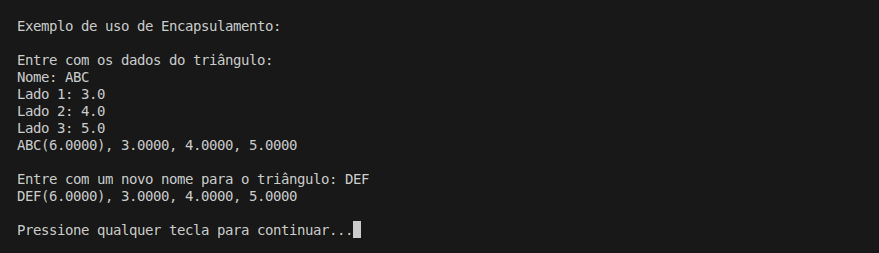
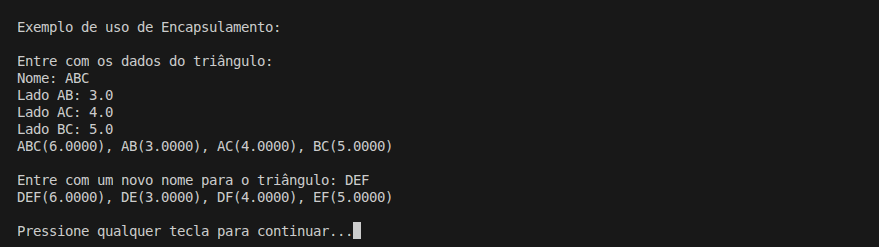
docs: adiciona descricao e screenshots da versao 0.8

diff --git a/Project/README.md b/Project/README.md
@@ -16,26 +16,44 @@ area = RaizQ(p * (p - S1) * (p - S2) * (p - S3))
 
 ## Detalhes Gerais
 
-- **Versão**: 0.8
-- **Conceito aplicado:** Tipos Anuláveis
+- **Versão**: 0.9
+- **Conceito aplicado:** Composição
 
 ## Descrição da Versão
 
 ```bash
 
-Introduz suporte a tipos anulaveis no fluxo de entrada
-da aplicacao.
+Introduz modelagem dos lados do triangulo
+por meio de composicao entre objetos.
 
-O metodo CreateTriangle passa a aceitar entradas vazias
-do usuario, convertendo-as para valores nulos por meio
-do metodo ParseDoubleOrNull.
+Foi criada a classe Segment, responsavel
+por representar um lado do triangulo com
+nome e comprimento validados.
 
-Os valores nulos sao tratados pelo construtor da classe
-Triangle, que aplica validacao e valores padrao para
-garantir a consistencia do objeto.
+A classe Triangle passa a compor tres
+instancias de Segment, substituindo as
+propriedades primitivas anteriormente usadas
+para representar os lados.
 
-Essa versao consolida o uso de nullable types no projeto
-antes da introducao de composicao entre objetos.
+O construtor e o setter de Name foram
+adaptados para garantir consistencia entre
+o nome do triangulo e os nomes dos segmentos,
+recriando os lados sempre que o nome muda.
+
+O metodo CreateTriangle foi atualizado
+para validar o nome antes da construcao
+do objeto e coletar as medidas dos lados
+como strings, delegando a conversao para
+um metodo auxiliar que suporta valores
+nulos.
+
+O exemplo de encapsulamento foi atualizado
+para utilizar a nova representacao em texto
+dos lados do triangulo.
+
+Essa versao consolida o uso de composicao
+no projeto e prepara o modelo para futuras
+evolucoes do dominio geometrico.
 
 ```
 
